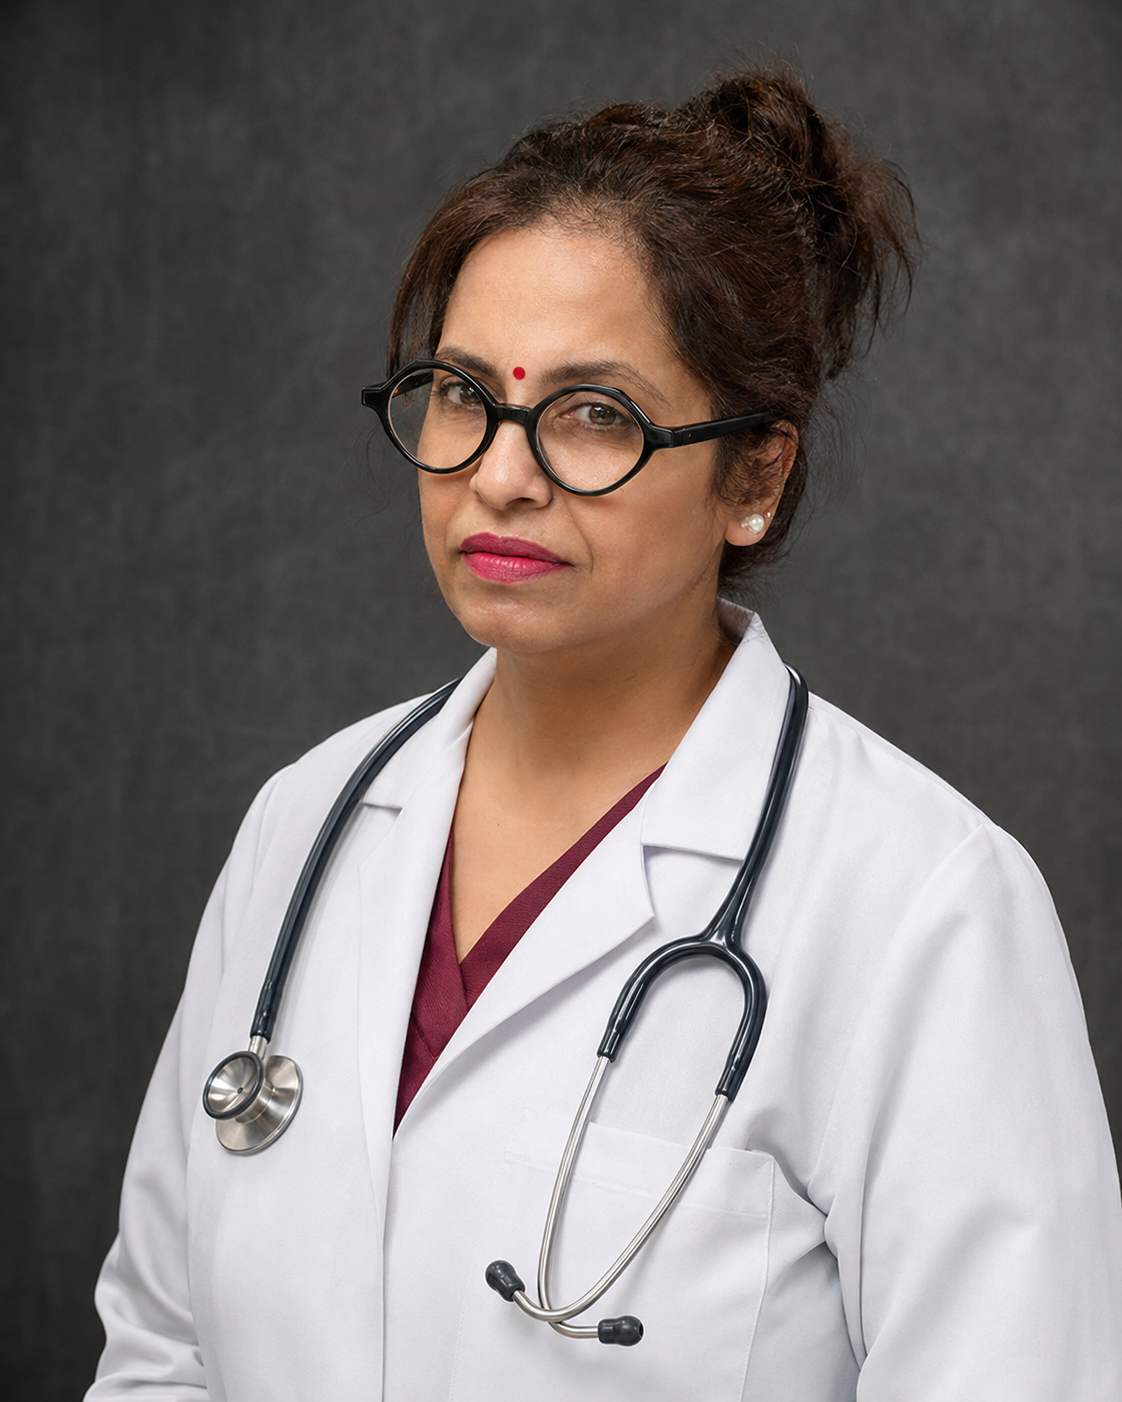
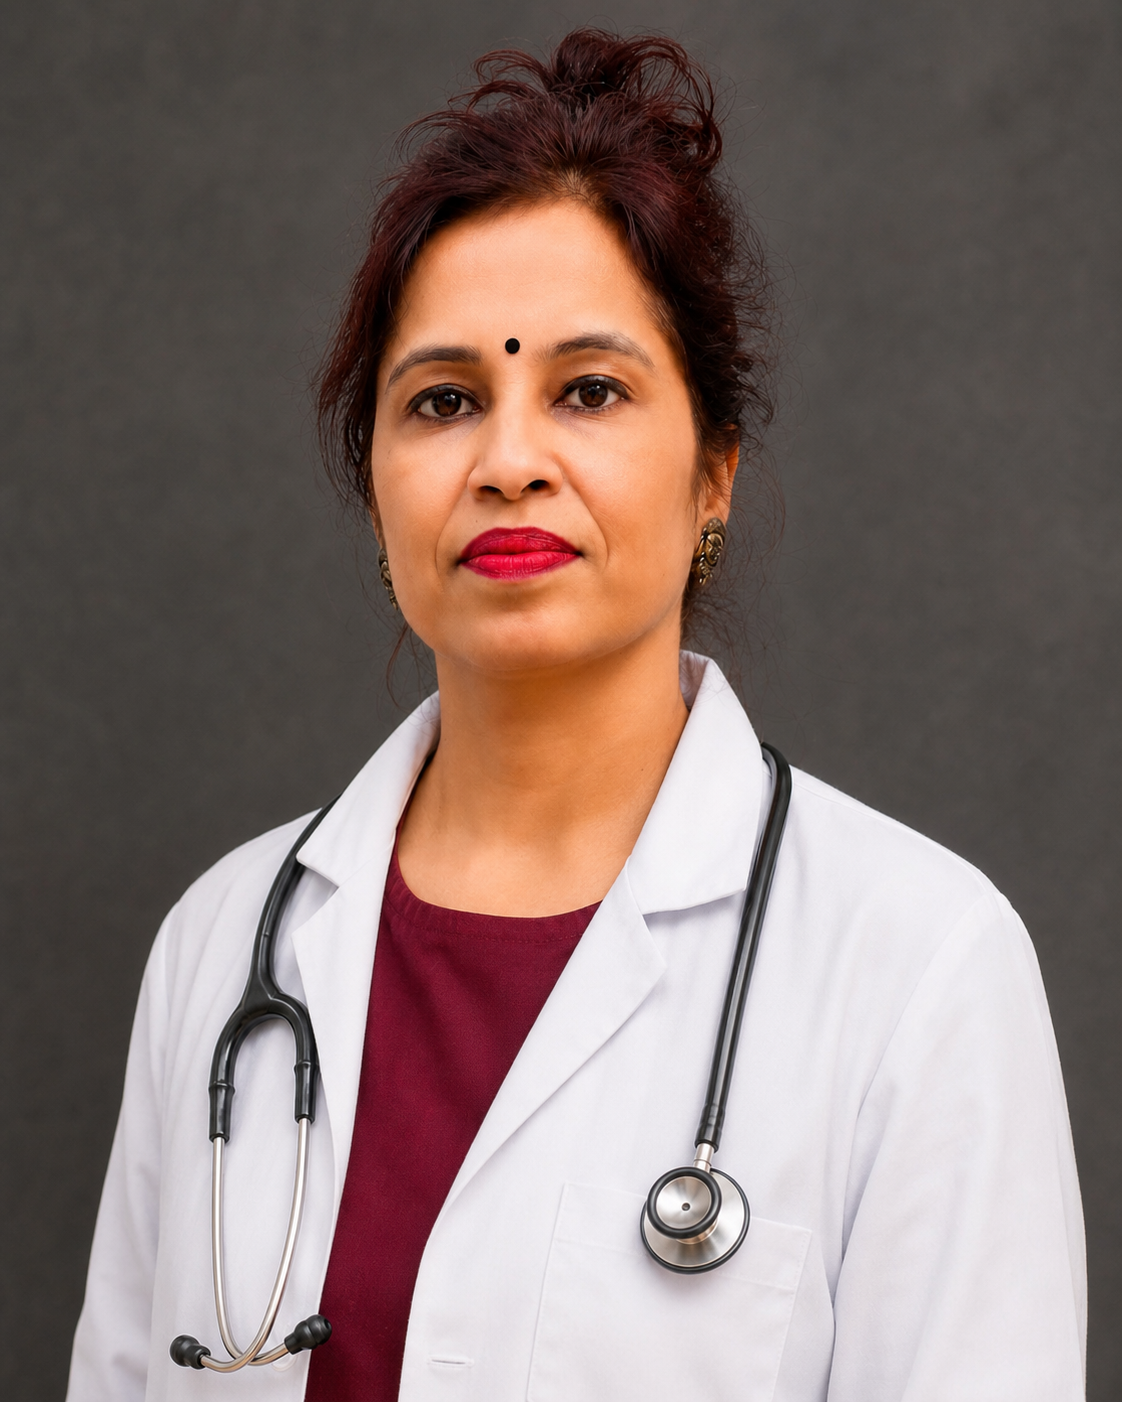
feat: update medical team profiles

diff --git a/app/data.ts b/app/data.ts
@@ -17,9 +17,8 @@ export const departments = services.map(({ name, icon, description, care }) => (
 
 export const doctors = [
   { name: "Dr Subhash Singh", department: "General Surgery", qualification: "MBBS, MS", experience: "Experienced consultant in general and laparoscopic surgery", role: "Consultant General Surgeon", photo: "/images/doctors/drsubhash.png", featured: true },
-  { name: "Dr Nidhi Thakur", department: "Obstetrics & Gynaecology", qualification: "MBBS, DGO", experience: "Experienced in obstetric, maternity and gynaecological care", role: "Consultant Gynaecologist", photo: "/images/doctors/drnidhi.png", featured: true },
-  { name: "Dr Bhoopendra Kumar Sharma", department: "Urology", qualification: "MBBS, MCh", experience: "Experienced consultant in medical and surgical urology", role: "Consultant Urologist" },
-  { name: "Dr Mohammad Fareed", department: "Paediatrics", qualification: "MBBS, MD Paediatrics", experience: "Experienced in child health, newborn and preventive care", role: "Consultant Paediatrician" },
+  { name: "Dr Nidhi Thakur", department: "Obstetrics & Gynaecology", qualification: "MBBS (KGMU), DGO (LLRM Medical College)", experience: "20+ years in high-risk obstetrics, gynaecology, laparoscopy, hysteroscopy and infertility care; former Senior Resident at PGIMS Rohtak", role: "Consultant Obstetrician & Gynaecologist", photo: "/images/doctors/drnidhi.png", featured: true },
+  { name: "Dr Bhoopendra Kumar Sharma", department: "Urology", qualification: "MBBS, MS (General Surgery), MCh (Urology)", experience: "Consultant and Assistant Professor of Urology; member of the Urological Society of India, Urology Academic Forum of Odisha and ASI", role: "Consultant Urologist & Assistant Professor", photo: "/images/doctors/drbhupendra.png" },
   { name: "Dr Rajiv Kumar", department: "Paediatrics", qualification: "MBBS, MD Paediatrics", experience: "12 years in paediatrics, neonatology, NICU, PICU and paediatric emergency care", role: "Consultant Paediatrician & Neonatologist", photo: "/images/doctors/drrajiv.png" },
   { name: "Dr Garima Singh", department: "Anaesthesiology", qualification: "MBBS, MD (Anaesthesiology)", experience: "18 years in perioperative anaesthesia, regional blocks and labour analgesia", role: "Consultant Anaesthesiologist", photo: "/images/doctors/drgarima.png" },
   { name: "Dr Rangit Pandey", department: "Anaesthesiology", qualification: "MBBS (KGMC Lucknow), MD (Anaesthesia & Critical Care)", experience: "Former senior resident at UCMS & GTB Hospital; former consultant at Kailash Hospital; former senior faculty and ICU in-charge at SRMS", role: "Consultant Anaesthesiologist", photo: "/images/doctors/drrangit.png" },

diff --git a/app/globals.css b/app/globals.css
@@ -4834,3 +4834,61 @@ body :is(svg, .site-icon) {
     padding-block: clamp(32px, 3vw, 48px) !important;
   }
 }
+
+/* About page: compact, scannable metrics and a focused FAQ accordion. */
+.glance.viewport-section {
+  min-height: auto;
+  padding: clamp(64px, 6vw, 88px) 0;
+}
+.glance .container {
+  width: min(calc(100% - 40px), 1120px);
+}
+.glance .stats {
+  grid-template-columns: repeat(5, minmax(0, 1fr));
+  margin-top: clamp(30px, 4vw, 44px);
+}
+.glance .stats div {
+  min-width: 0;
+  padding: clamp(16px, 2vw, 24px) 12px;
+}
+.faq {
+  padding: clamp(64px, 6vw, 88px) 0;
+}
+.faq .container {
+  width: min(calc(100% - 40px), 920px);
+}
+.faq-grid {
+  grid-template-columns: minmax(0, 1fr);
+  gap: 12px;
+  margin-top: clamp(28px, 4vw, 40px);
+}
+.faq-grid details {
+  padding: 16px 20px;
+}
+.faq-grid details[open] {
+  border-color: #98c7f2;
+}
+.faq-grid summary {
+  line-height: 1.45;
+}
+.faq-grid p {
+  max-width: 72ch;
+  margin-bottom: 0;
+  line-height: 1.6;
+}
+
+@media (max-width: 960px) {
+  .glance .stats {
+    grid-template-columns: repeat(3, minmax(0, 1fr));
+  }
+}
+
+@media (max-width: 640px) {
+  .glance .container,
+  .faq .container {
+    width: min(calc(100% - 30px), 920px);
+  }
+  .glance .stats {
+    grid-template-columns: repeat(2, minmax(0, 1fr));
+  }
+}
